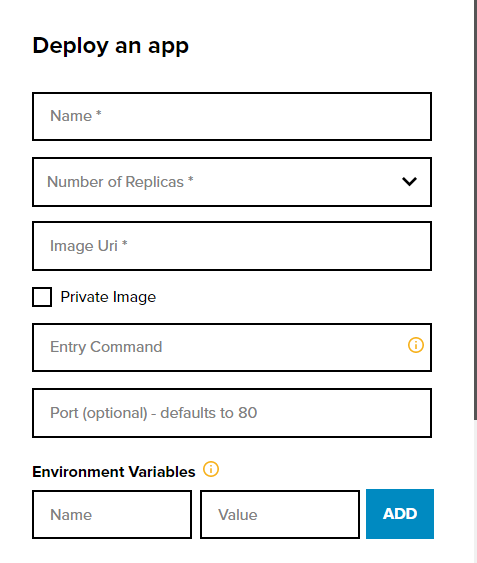
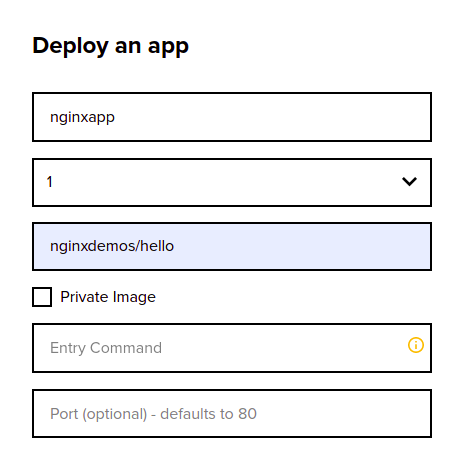
Add new image for application form

Changed region(s): [[0.0596, 0.1532, 0.9234, 0.9803], [0.983, 0.0, 1.0, 0.7659], [0.0596, 0.0613, 0.417, 0.1225]]

diff --git a/cranecloud/docs/applications/deployWithoutDB.md b/cranecloud/docs/applications/deployWithoutDB.md
@@ -11,7 +11,7 @@ Upon successful login into your Crane cloud account, and after successfully crea
 1\. Drill into a project that you created of your choice and click the plus button in the top right corner of the application. This will pop up a modal containing a form that will help you deploy your application.
 ![](../img/appsemptypage.png)
 
-2\. The deployment modal will popup for you to fill and deploy an application. 
+2\. The deployment modal will popup for you to fill and deploy an application. The Name field will be for your application name in the example it is "nginxapp", the number of replicas even when not selects defaults to 1. The image uri, is the docker hub image link, the first part is the docker hub username/image name and as in the example below "nginxdemos" is the dockerhub username and "hello" is the image name.
 ![](../img/createAppForm.png)
 
 3\. Fill in the form with your application-specific information like Application Name, Number of replicas, Link to Public image of the Application on any image registry like Docker and Environment Variables that are specific to your application. 
